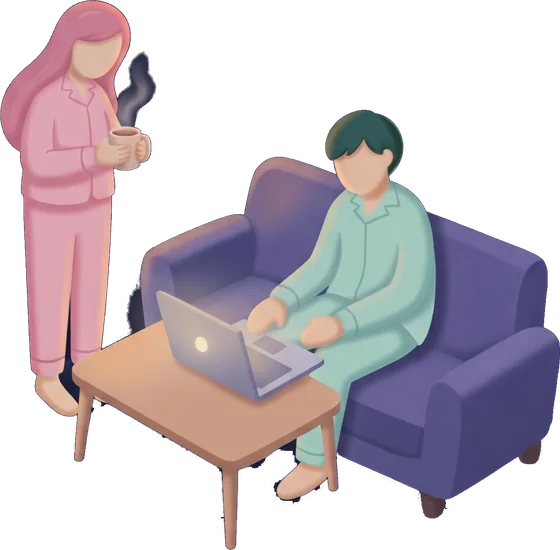
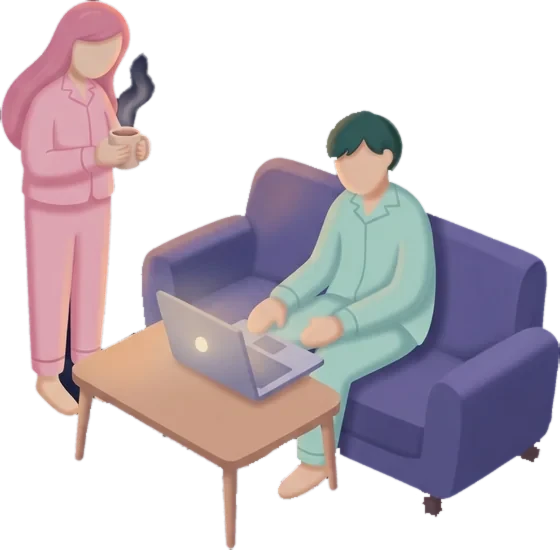
お部屋: 場面の影をやめて、絵に残っていた黒い汚れを消す(-135)
足元の影は、浮いて見える場面があったので、つけない(絵の中の影だけにする)。
ノートパソコンの絵と、机で書く絵の、黒い切りのこしを消す(tools/clear-dark.py)。

Claude-Session: https://claude.ai/code/session_0116inbLhgYz72u1gz15Rogf

diff --git a/docs/js/room.js b/docs/js/room.js
@@ -45,33 +45,7 @@ function base(o = {}){const pts = Math.max(0, Math.min(100, Number(o.pts) || 0))
 // ベッド・ソファ
 const sofaBack=(x,y)=>`<rect x="${x}" y="${y}" width="144" height="44" rx="16" fill="#7a5aa8"/>`;
 const sofaFront=(x,y)=>`<rect x="${x+8}" y="${y+26}" width="128" height="42" rx="14" fill="#5a3d8a"/><rect x="${x}" y="${y+8}" width="22" height="60" rx="10" fill="#5a3d8a"/><rect x="${x+122}" y="${y+8}" width="22" height="60" rx="10" fill="#5a3d8a"/>`;
-// 絵ごとの、床にふれている所の影: [x, y, 横の半径, 縦の半径, かたむき(度)]。絵のファイル(横560)の上の位置。
-// 脚・足・ソファの脚など、床にふれる所に、小さな影を置く(場面ごとに、足元が違うため)。ないときは、絵の下に1つ。
-export const SHADOWS = {
-  d2: [[60, 405, 40, 9], [82, 468, 11, 4], [230, 546, 14, 5], [300, 490, 34, 7], [410, 497, 62, 11]],
-  d3: [[150, 292, 40, 8], [80, 343, 10, 4], [14, 302, 9, 3], [225, 217, 16, 5], [452, 320, 16, 5], [320, 290, 40, 6]],
-  d4: [[250, 190, 14, 4], [462, 285, 14, 4], [403, 300, 16, 4], [355, 262, 32, 6], [360, 262, 100, 13]],
-  d5: [[150, 293, 36, 7], [40, 328, 26, 6], [230, 214, 14, 4], [535, 272, 16, 4], [345, 292, 38, 6], [380, 245, 160, 14, 10]],
-  d6: [[22, 500, 12, 4], [228, 502, 12, 4], [118, 558, 14, 5], [418, 474, 16, 5], [295, 458, 45, 8], [250, 380, 190, 18, 29]],
-  d8: [[140, 432, 10, 4], [295, 502, 10, 5], [460, 432, 10, 4], [130, 383, 75, 9], [480, 383, 70, 9], [385, 405, 20, 5]],
-  d9: [[25, 625, 22, 7], [170, 665, 26, 7], [520, 580, 22, 6], [290, 630, 130, 14, 30], [455, 665, 70, 14, -28]],
-  d10: [[148, 417, 10, 4], [305, 490, 10, 5], [460, 417, 10, 4], [130, 372, 80, 9], [490, 362, 70, 9], [418, 380, 18, 5]],
-  d11: [[60, 655, 42, 8], [148, 640, 36, 7], [137, 674, 10, 4], [352, 797, 14, 5], [495, 722, 10, 4], [448, 675, 9, 3], [345, 697, 45, 7], [545, 612, 8, 3]],
-  d12: [[62, 335, 16, 5], [532, 430, 16, 5], [418, 495, 16, 5], [130, 520, 115, 9], [290, 505, 40, 6]],
-  n1: [[32, 352, 14, 5], [275, 460, 18, 6], [552, 300, 12, 4], [150, 395, 135, 14, 25], [415, 385, 150, 14, -25]],
-  n2: [[42, 390, 16, 5], [530, 385, 16, 5], [150, 450, 55, 8], [270, 470, 70, 8], [285, 392, 245, 11]],
-  n3: [[280, 338, 265, 9]],
-  n4: [[42, 328, 16, 5], [532, 380, 16, 5], [412, 445, 16, 5], [270, 415, 22, 6], [335, 435, 26, 6], [225, 385, 190, 12, 17], [470, 408, 80, 12, -28]],
-};
-const PIC_W = 560; // 絵のファイルの横(ピクセル)
-const shadowOf = (k, x, y, w, h) => {
-  const sh = SHADOWS[k];
-  if (!sh) return `<ellipse cx="${x + w / 2}" cy="${y + h - 3}" rx="${w * .46}" ry="5" fill="#0a0620" opacity=".4"/>`;
-  const f = w / PIC_W;
-  const r = (n) => Math.round(n * 10) / 10;
-  return `<g opacity=".42" filter="url(#rmsh)">${sh.map(([cx, cy, rx, ry, a]) => `<ellipse cx="${r(x + cx * f)}" cy="${r(y + cy * f)}" rx="${r(rx * f)}" ry="${r(ry * f)}" fill="#0a0620"${a ? ` transform="rotate(${a} ${r(x + cx * f)} ${r(y + cy * f)})"` : ''}/>`).join('')}</g>`;
-};
-const pic=(k,x,y,w,h)=>`<filter id="rmsh" x="-20%" y="-60%" width="140%" height="220%"><feGaussianBlur stdDeviation="1.3"/></filter>${shadowOf(k, x, y, w, h)}<image href="img/room/${k}.webp" x="${x}" y="${y}" width="${w}" height="${h}"/>`;
+const pic=(k,x,y,w,h)=>`<image href="img/room/${k}.webp" x="${x}" y="${y}" width="${w}" height="${h}"/>`;
 // 絵のファイルで出す場面: 名前 → [x, y, 幅, 高さ](画面360x340のなか。足元が床になるように)。
 // 足すとき: docs/img/room/<名前>.webp を置く → ここに1行 → sw.js の FILES にも書く(tests/room.test.mjs が、そろっているか見張る)
 export const PICS = { n1: [191, 206, 155, 130], n2: [217, 221, 130, 115], n3: [208, 249, 142, 87], n4: [216, 228, 131, 108], d2: [172, 165, 175, 172], d3: [156, 210, 204, 127], d4: [142, 186, 218, 149], d5: [155, 214, 205, 122], d6: [207, 194, 141, 143], d8: [208, 210, 138, 127], d9: [228, 202, 105, 135], d10: [204, 207, 145, 130], d11: [238, 195, 99, 142], d12: [210, 205, 134, 132] };

diff --git a/docs/sw.js b/docs/sw.js
@@ -1,5 +1,5 @@
 // 画面のファイルだけを保存する。通信(天気・Firebase)には触れない。
-const CACHE = 'shell-v123';
+const CACHE = 'shell-v124';
 const FILES = [
   './', 'index.html', 'css/style.css', 'css/moon.css', 'css/shelf.css', 'css/ticket.css', 'css/diary.css', 'manifest.webmanifest',
   'js/app.js', 'js/crypto.js', 'js/cities.js', 'js/weather.js', 'js/emoji.js', 'js/cycle.js', 'js/card.js', 'js/share.js', 'js/qa.js', 'js/dates.js', 'js/export.js', 'js/news.js', 'js/moon.js', 'js/moonlogic.js', 'js/demo-boot.js', 'js/chara.js', 'js/similar.js', 'js/hitorigoto.js', 'js/shelf.js', 'js/ticket.js', 'js/diary.js', 'js/anniv.js', 'js/tags.js', 'img/anniv/2026-10-27.webp', 'img/anniv/2026-10-28.webp', 'img/anniv/2026-10-29.webp', 'js/room.js', 'js/config.js', 'js/store.js',

diff --git a/docs/js/app.js b/docs/js/app.js
@@ -41,7 +41,7 @@ const K = {
   key: 'app.key', name: 'app.name', seq: 'app.seq', salt: 'app.salt',
   auto: 'app.auto', expire: 'app.expire', city: 'app.city', card: 'app.card', theme: 'app.theme', patSeen: 'app.patSeen', patShown: 'app.patShown', bd: 'app.bd', talk: 'app.talk', rcpt: 'app.rcpt', seen: 'app.seen', role: 'app.role', moonSeen: 'app.moonSeen', moodAsk: 'app.moodAsk', sayLast: 'app.sayLast', sayMorning: 'app.sayMorning', fullSeen: 'app.fullSeen', roomLast: 'app.roomLast', diaryAt: 'app.diaryAt', opens: 'app.opens', tagHide: 'app.tagHide',
 };
-const VERSION = '2026.10.30-134';
+const VERSION = '2026.10.30-135';
 
 // 調子(新月 → 満月)と気分のタグ
 const LEVELS = [['しんどい', 1], ['いまいち', 2], ['ふつう', 3], ['まあまあ', 4], ['元気', 5]];

diff --git a/tools/clear-dark.py b/tools/clear-dark.py
@@ -1,0 +1,40 @@
+#!/usr/bin/env python3
+"""切り出した場面(透明のWebP)の、足もとに残った、黒っぽい汚れ(影の切りのこし)を、透明にする。
+
+使い方:  python3 tools/clear-dark.py 入力.webp 出力.webp [守る範囲 x0,y0,x1,y1 ...]
+
+・外側(すでに透明な所)から、つながっている「暗くて、色がうすい」ところだけを消す。
+  人物や家具の中にある暗い色(髪・パソコン・ソファの裏)は、外側とつながっていなければ、消さない。
+・色のついた暗い所(濃い緑の髪・茶色の脚・濃い紫のソファ)は、消さない。
+・「守る範囲」(たとえば、コーヒーの湯気)も、消さない。
+必要なもの: Pillow, numpy
+"""
+import sys
+import numpy as np
+from PIL import Image, ImageFilter
+
+src, dst = sys.argv[1], sys.argv[2]
+keeps = [tuple(map(int, v.split(','))) for v in sys.argv[3:]]
+im = Image.open(src).convert('RGBA')
+a = np.array(im).astype(np.int16)
+r, g, b, al = a[..., 0], a[..., 1], a[..., 2], a[..., 3]
+mx = np.maximum(np.maximum(r, g), b)
+mn = np.minimum(np.minimum(r, g), b)
+dark = (al > 0) & (mx < 85) & ((mx - mn) < 38) & ~(g > r + 12) & ~(r > b + 8)  # 暗くて、色がうすい(黒・こい灰色・こい紺)。緑がかった所(髪)・茶色(脚)は除く
+for x0, y0, x1, y1 in keeps:
+    dark[y0:y1, x0:x1] = False
+T = al == 0
+for _ in range(400):
+    d = T.copy()
+    d[1:, :] |= T[:-1, :]; d[:-1, :] |= T[1:, :]; d[:, 1:] |= T[:, :-1]; d[:, :-1] |= T[:, 1:]
+    new = d & dark & ~T
+    if not new.any():
+        break
+    T |= new
+out = np.array(im)
+out[..., 3] = np.where(T, 0, out[..., 3])
+res = Image.fromarray(out, 'RGBA')
+alpha = res.getchannel('A').filter(ImageFilter.MinFilter(3)).filter(ImageFilter.GaussianBlur(0.6))
+res.putalpha(alpha)
+res.save(dst, quality=90, method=6)
+print(dst, res.size, int(T.sum() - (al == 0).sum()), 'px removed')
